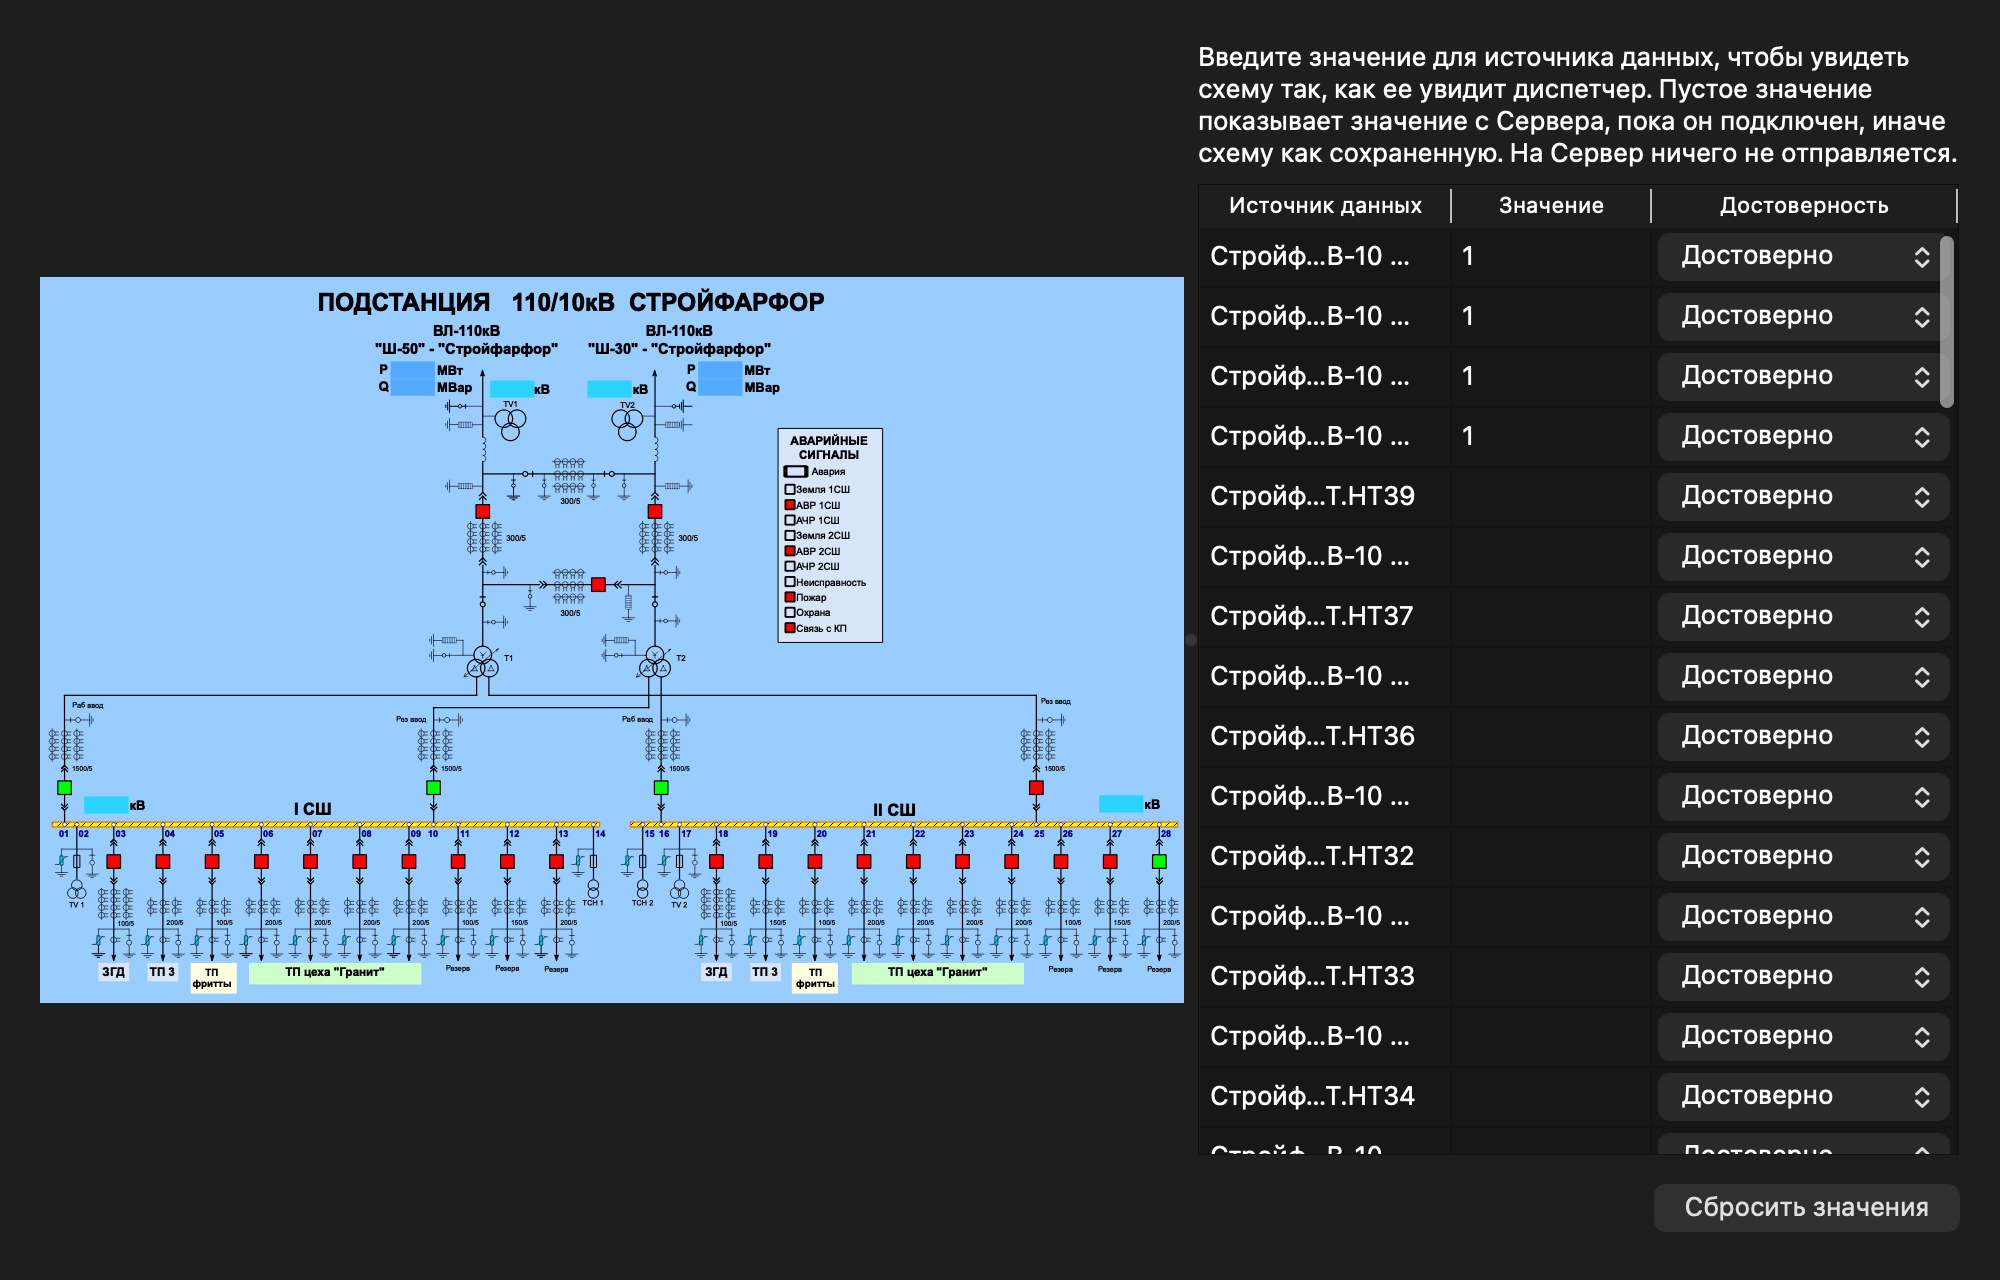
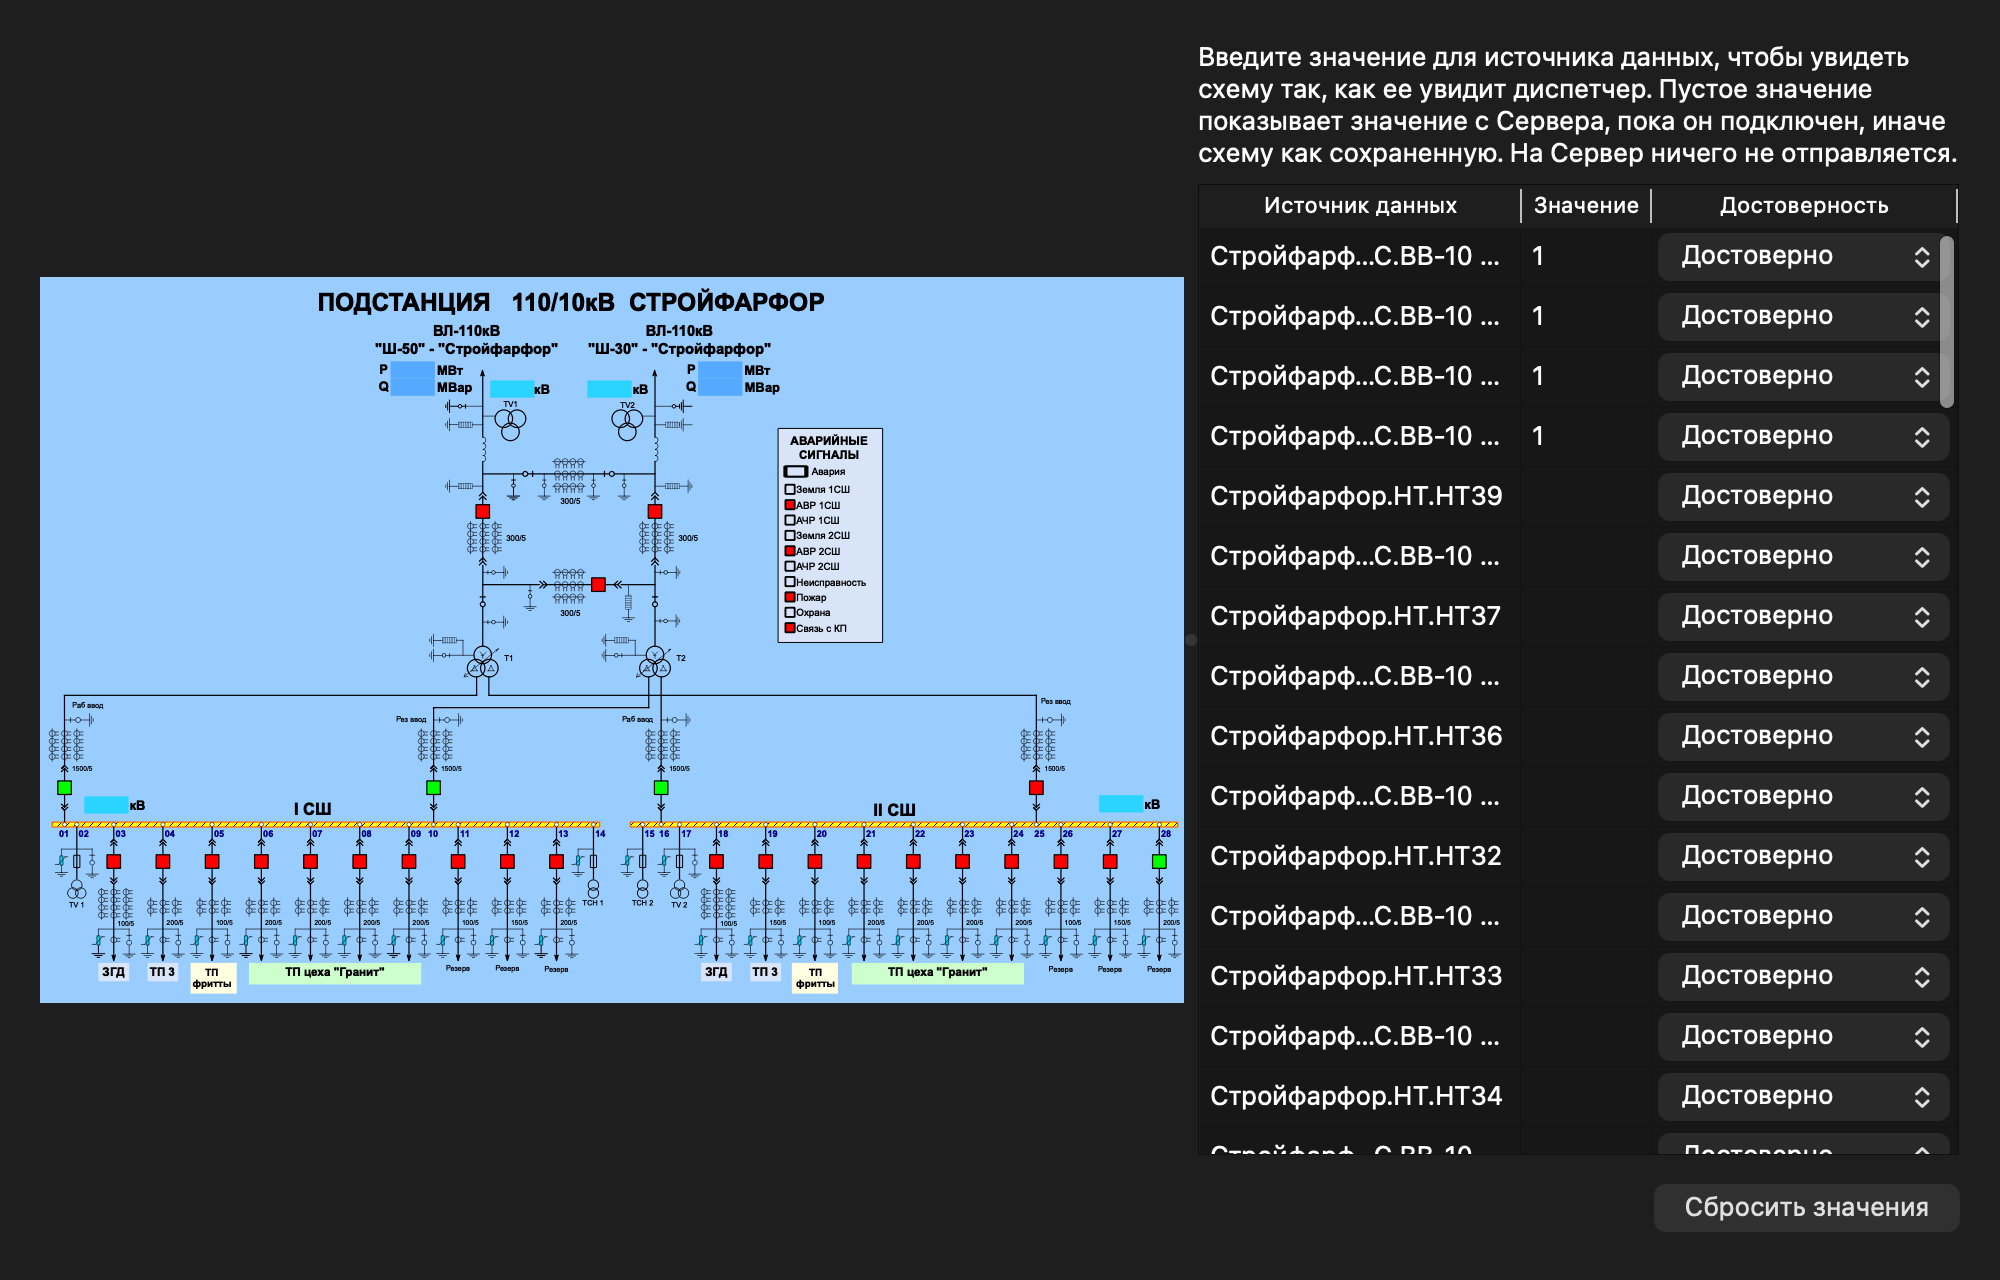
designer: the Server link run end to end in the window; what it found
ServerLinkLiveTest drives the real MainWindow against a running Server
(skipped unless DESIGNER_LIVE_SERVER_URL is set): connect, Tags dock,
drop on a shape, Describe, View > Preview with the live column and a
typed override, save, publish a fresh name twice. It passes against
dev/local-cluster. What the run found, fixed here:

- A file added through the proxy is listed in its folder 70-1900 ms
  later, so a second Publish in that window added it again and the
  filesystem tier refused with a bare Bad. Adding a taken name now
  answers Bad_BrowseNameDuplicated (OPC UA Part 4 5.8.2.4, Table 24
  AddNodes Operation Level Result Codes; 0x80610000), new in
  core/scada/status.h, opcuapp and the OPC UA bridge, with the Client's
  sentence; Publish says the name was taken meanwhile and to publish
  again to replace it. Verified through the proxy.
- Bad_WaitingForInitialData read "? (Bad)" in the Preview's Server
  column; it reads "No value yet".
- The column showed seventeen digits, elided; six now, and the Value
  and Server columns size to their contents. Preview captures
  re-rendered for the manual (ru, en).

Discoveries: the Preview does not format by the item's DisplayFormat as
the Client does; recorded in docs/server-link.md, not filed. The Client's
Russian sentence lands in the next commit (client_ru.ts is contended).

Changed region(s): [[0.62, 0.1562, 0.806, 0.875]]

diff --git a/dev/designer/view.md b/dev/designer/view.md
@@ -90,7 +90,9 @@ permalink: /dev/designer/view/
 показывает значение каждого источника, а фигуры принимают соответствующий
 вид. Введенное значение заменяет значение Сервера, пока его не сотрут, —
 так можно проверить, как схема покажет аварию, не трогая оборудование.
-Источник, которого на Сервере нет, отмечен «Нет на Сервере».
+Источник, которого на Сервере нет, отмечен «Нет на Сервере»; источник, по
+которому Сервер еще не получил ни одного значения (например, сигнал
+устройства, не ответившего с запуска Сервера), — «Значения ещё нет».
 
 Окно только показывает: схему в нем не изменить, а введенные значения
 никуда не отправляются — Дизайнер ничего не записывает на Сервер. Оно следует за правками в окне схемы и за

diff --git a/en/dev/designer/view.md b/en/dev/designer/view.md
@@ -92,7 +92,8 @@ values: the *Server* column shows each source's value, and the shapes take
 the look it gives them. A typed value replaces the Server's until it is
 cleared — a way to check how the schematic will show an alarm without
 touching the plant. A source the Server does not have is marked "Not on the
-Server".
+Server"; one it has but has had no value for yet — a signal whose device has
+not reported since the Server started — reads "No value yet".
 
 The window only shows: the schematic cannot be changed in it, and the values
 typed are sent nowhere — the Designer writes nothing to the Server. It follows edits in the schematic window and
